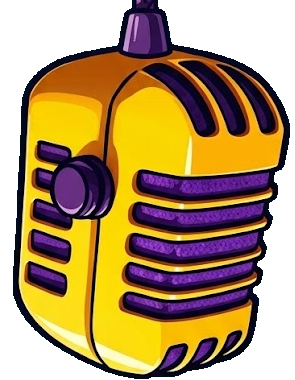
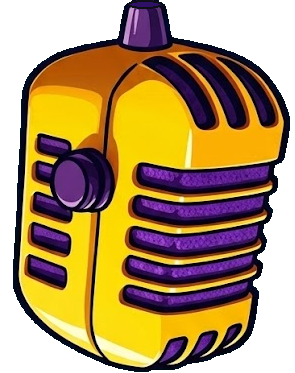
fix: Eliminate cable stub artifact and perfectly lock wire socket docking

diff --git a/frontend/src/components/HangingMicClickStage.tsx b/frontend/src/components/HangingMicClickStage.tsx
@@ -264,15 +264,15 @@ export const HangingMicClickStage: React.FC<HangingMicClickStageProps> = ({
       <div
         style={{
           right: `${mountRight - 5}px`,
-          top: '30px',
-          height: `${Math.max(0, currentMicY - 18)}px`,
+          top: '32px',
+          height: `${Math.max(0, currentMicY - 30)}px`,
           width: '10px',
           backgroundImage: "url('/assets/vintage_cable_tile.png')",
           backgroundRepeat: 'repeat-y',
           backgroundSize: '10px auto',
           backgroundPosition: 'center top',
         }}
-        className="absolute z-0 pointer-events-none filter drop-shadow-[3px_3px_0px_rgba(0,0,0,0.8)]"
+        className="absolute z-10 pointer-events-none filter drop-shadow-[2px_2px_0px_rgba(0,0,0,0.8)]"
       />
 
       {/* ======================================================== */}
